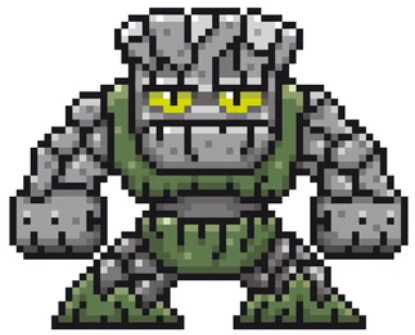
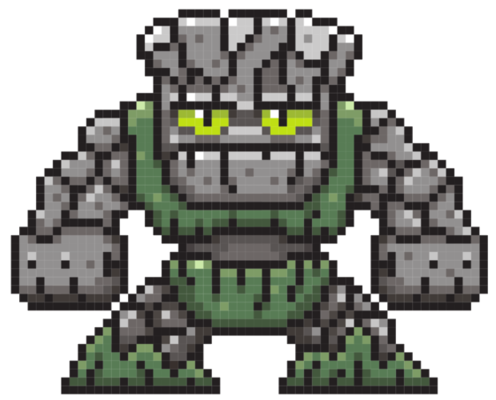
removed white background from moss golem and added background image

diff --git a/src/characterData/monsters/mossGolem.js b/src/characterData/monsters/mossGolem.js
@@ -2,6 +2,7 @@ import { BattleAction } from "@/classes/battleAction";
 import { Characters } from "@/enums/characters";
 import { MonsterActions } from "@/enums/monsterActions";
 import image from '@/assets/monsters/mossGolem.png';
+import backgroundImage from '@/assets/backgrounds/flatDirtGround.png';
 import { Monster } from "@/classes/monster";
 
 var monsterAttack = new BattleAction(
@@ -24,5 +25,6 @@ export var mossGolem = new Monster(
   100,
   100,
   2,
-  image
+  image,
+  backgroundImage
 );

diff --git a/src/characterData/monsters/monsters.js b/src/characterData/monsters/monsters.js
@@ -1,4 +1,4 @@
 import { mossGolem } from "./mossGolem";
 import { rodent } from "./rodent";
 
-export var monsters = [rodent, mossGolem];
+export var monsters = [mossGolem, rodent, mossGolem];
